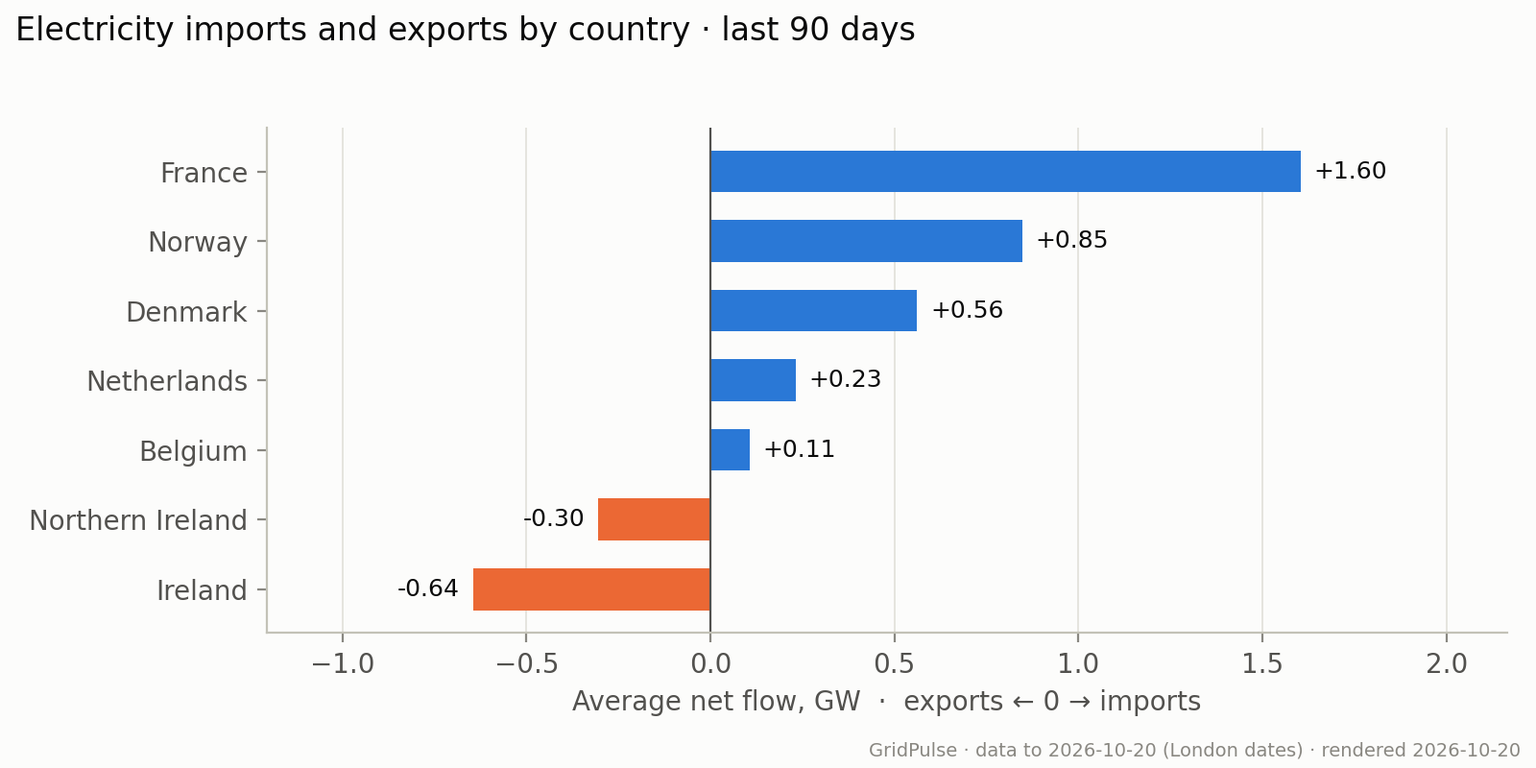
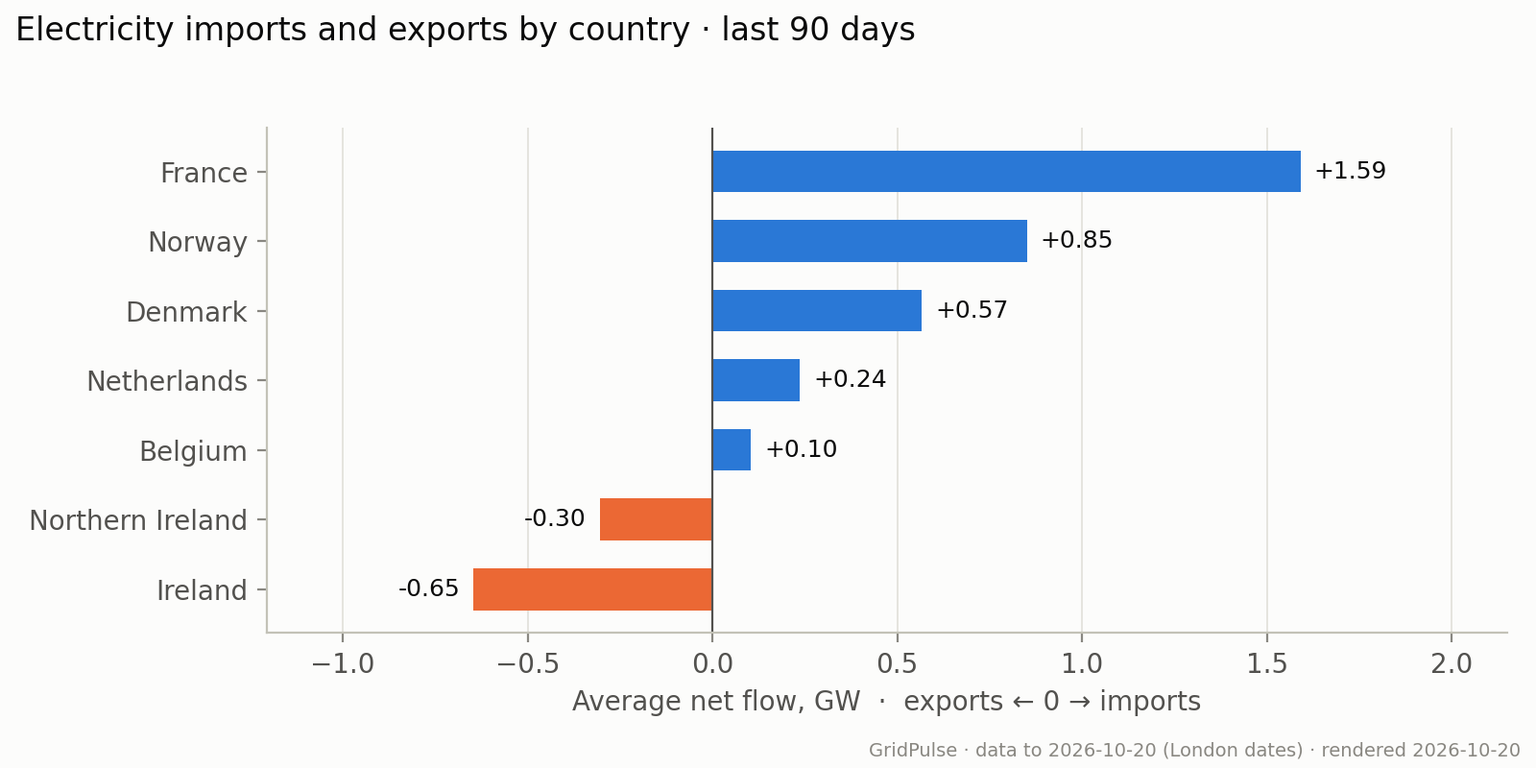
Rebuild from data to 2026-10-20, built 2026-10-20 14:50 UTC

diff --git a/index.html b/index.html
@@ -68,12 +68,12 @@ how electricity flows across borders, and how accurately demand is forecast.</p>
 <div><a href="#prices"><strong>Prices and grid conditions</strong></a><ul><li><a href="#negative_frequency">Negative Wholesale Price Frequency</a></li><li><a href="#negative_conditions">Grid Conditions During Negative Prices</a></li><li><a href="#imbalance_spread">Imbalance and Wholesale Price Gap</a></li><li><a href="#imbalance_conditions">Imbalance Prices by Grid Conditions</a></li></ul></div>
 <div><a href="#forecast-accuracy"><strong>Forecast accuracy</strong></a><ul><li><a href="#demand_accuracy">Average Demand Forecast Error by Hours Ahead</a></li><li><a href="#carbon_accuracy">Carbon Forecast Error by Month</a></li></ul></div>
 <div><a href="#data-quality"><strong>Data quality</strong></a><ul><li><a href="#coverage">Monthly Data Coverage</a></li><li><a href="#publication_coverage">Demand Forecast Publication Coverage</a></li></ul></div></nav></details>
-<p class="banner" id="built" data-built="2026-10-20T08:50:21Z" data-ingested="2026-10-20T08:00:34Z">
-Analysis built 2026-10-20 08:50 UTC. Each chart uses its stated window;
+<p class="banner" id="built" data-built="2026-10-20T14:50:17Z" data-ingested="2026-10-20T14:00:36Z">
+Analysis built 2026-10-20 14:50 UTC. Each chart uses its stated window;
 current-month results are provisional. Scheduled refresh: every 6 hours.</p>
 <details class="provenance"><summary>Data dates and source code</summary>
 <p class="meta">National carbon actuals: data to 2026-10-20 (London dates).
-Most recent ingestion across sources: 2026-10-20 08:00 UTC.
+Most recent ingestion across sources: 2026-10-20 14:00 UTC.
 These timestamps do not establish completeness or freshness for every source.
 “As of” refers to the build date. Select a chart to view it full size.</p>
 <a href="https://github.com/thrkld/gridpulse">Python, SQL and dbt project on GitHub</a></details>
@@ -135,7 +135,7 @@ These timestamps do not establish completeness or freshness for every source.
 <h4>Limitations</h4>
 <p class="caveat">Only half hours with all ten links reporting and positive settled demand are included. The Scotland–England boundary is excluded. Incomplete coverage may affect comparisons, especially for the current month.</p>
 <details><summary>How to read this graph and methodology</summary><p>The calculation sums the net flow across all ten cross-border links for each eligible half hour, then divides the monthly sum by demand summed over those same periods. It is a ratio of totals, rather than an average of half-hourly percentages. A value of 10% means net imports were equivalent to one tenth of national demand in the matched sample. Bars above zero indicate net imports; bars below zero indicate net exports. History starts in January 2024, and a light-blue bar identifies the current, incomplete month.</p></details>
-<details><summary>Numbers behind the chart</summary><div class="table-scroll" tabindex="0" role="region" aria-label="Data for Net Imports Relative to National Demand"><table><thead><tr><th>Month</th><th>Net imports / demand %</th><th>Mean net imports MW</th><th>Matched periods</th></tr></thead><tbody><tr><td>2024-01-01</td><td>8.06</td><td>2,562</td><td>1488</td></tr><tr><td>2024-02-01</td><td>15.01</td><td>4,432</td><td>1392</td></tr><tr><td>2024-03-01</td><td>19.32</td><td>5,391</td><td>1486</td></tr><tr><td>2024-04-01</td><td>13.29</td><td>3,350</td><td>1440</td></tr><tr><td>2024-05-01</td><td>20.57</td><td>4,757</td><td>1488</td></tr><tr><td>2024-06-01</td><td>20.41</td><td>4,511</td><td>1440</td></tr><tr><td>2024-07-01</td><td>20.62</td><td>4,707</td><td>1488</td></tr><tr><td>2024-08-01</td><td>12.1</td><td>2,625</td><td>1488</td></tr><tr><td>2024-09-01</td><td>15.22</td><td>3,700</td><td>1440</td></tr><tr><td>2024-10-01</td><td>12.64</td><td>3,375</td><td>1490</td></tr><tr><td>2024-11-01</td><td>11.05</td><td>3,381</td><td>1440</td></tr><tr><td>2024-12-01</td><td>9.21</td><td>2,741</td><td>1488</td></tr><tr><td>2025-01-01</td><td>10.27</td><td>3,419</td><td>1488</td></tr><tr><td>2025-02-01</td><td>8.82</td><td>2,795</td><td>1344</td></tr><tr><td>2025-03-01</td><td>16.57</td><td>4,551</td><td>1486</td></tr><tr><td>2025-04-01</td><td>17.99</td><td>4,246</td><td>1440</td></tr><tr><td>2025-05-01</td><td>14.65</td><td>3,180</td><td>1488</td></tr><tr><td>2025-06-01</td><td>11.81</td><td>2,581</td><td>1440</td></tr><tr><td>2025-07-01</td><td>18.21</td><td>4,126</td><td>1488</td></tr><tr><td>2025-08-01</td><td>16.98</td><td>3,703</td><td>1488</td></tr><tr><td>2025-09-01</td><td>12.05</td><td>2,847</td><td>1440</td></tr><tr><td>2025-10-01</td><td>10.61</td><td>2,817</td><td>1490</td></tr><tr><td>2025-11-01</td><td>6.67</td><td>1,988</td><td>1440</td></tr><tr><td>2025-12-01</td><td>11.78</td><td>3,561</td><td>1488</td></tr><tr><td>2026-01-01</td><td>7.38</td><td>2,428</td><td>1488</td></tr><tr><td>2026-02-01</td><td>6.44</td><td>2,006</td><td>1344</td></tr><tr><td>2026-03-01</td><td>14.46</td><td>3,985</td><td>1486</td></tr><tr><td>2026-04-01</td><td>12.21</td><td>2,868</td><td>1440</td></tr><tr><td>2026-05-01</td><td>19.08</td><td>4,315</td><td>1488</td></tr><tr><td>2026-06-01</td><td>14.09</td><td>3,162</td><td>1440</td></tr><tr><td>2026-07-01</td><td>20.01</td><td>4,372</td><td>1488</td></tr><tr><td>2026-08-01</td><td>15.24</td><td>3,365</td><td>1488</td></tr><tr><td>2026-09-01</td><td>5.43</td><td>1,269</td><td>1440</td></tr><tr><td>2026-10-01</td><td>5.6</td><td>1,382</td><td>879</td></tr></tbody></table></div></details>
+<details><summary>Numbers behind the chart</summary><div class="table-scroll" tabindex="0" role="region" aria-label="Data for Net Imports Relative to National Demand"><table><thead><tr><th>Month</th><th>Net imports / demand %</th><th>Mean net imports MW</th><th>Matched periods</th></tr></thead><tbody><tr><td>2024-01-01</td><td>8.06</td><td>2,562</td><td>1488</td></tr><tr><td>2024-02-01</td><td>15.01</td><td>4,432</td><td>1392</td></tr><tr><td>2024-03-01</td><td>19.32</td><td>5,391</td><td>1486</td></tr><tr><td>2024-04-01</td><td>13.29</td><td>3,350</td><td>1440</td></tr><tr><td>2024-05-01</td><td>20.57</td><td>4,757</td><td>1488</td></tr><tr><td>2024-06-01</td><td>20.41</td><td>4,511</td><td>1440</td></tr><tr><td>2024-07-01</td><td>20.62</td><td>4,707</td><td>1488</td></tr><tr><td>2024-08-01</td><td>12.1</td><td>2,625</td><td>1488</td></tr><tr><td>2024-09-01</td><td>15.22</td><td>3,700</td><td>1440</td></tr><tr><td>2024-10-01</td><td>12.64</td><td>3,375</td><td>1490</td></tr><tr><td>2024-11-01</td><td>11.05</td><td>3,381</td><td>1440</td></tr><tr><td>2024-12-01</td><td>9.21</td><td>2,741</td><td>1488</td></tr><tr><td>2025-01-01</td><td>10.27</td><td>3,419</td><td>1488</td></tr><tr><td>2025-02-01</td><td>8.82</td><td>2,795</td><td>1344</td></tr><tr><td>2025-03-01</td><td>16.57</td><td>4,551</td><td>1486</td></tr><tr><td>2025-04-01</td><td>17.99</td><td>4,246</td><td>1440</td></tr><tr><td>2025-05-01</td><td>14.65</td><td>3,180</td><td>1488</td></tr><tr><td>2025-06-01</td><td>11.81</td><td>2,581</td><td>1440</td></tr><tr><td>2025-07-01</td><td>18.21</td><td>4,126</td><td>1488</td></tr><tr><td>2025-08-01</td><td>16.98</td><td>3,703</td><td>1488</td></tr><tr><td>2025-09-01</td><td>12.05</td><td>2,847</td><td>1440</td></tr><tr><td>2025-10-01</td><td>10.61</td><td>2,817</td><td>1490</td></tr><tr><td>2025-11-01</td><td>6.67</td><td>1,988</td><td>1440</td></tr><tr><td>2025-12-01</td><td>11.78</td><td>3,561</td><td>1488</td></tr><tr><td>2026-01-01</td><td>7.38</td><td>2,428</td><td>1488</td></tr><tr><td>2026-02-01</td><td>6.44</td><td>2,006</td><td>1344</td></tr><tr><td>2026-03-01</td><td>14.46</td><td>3,985</td><td>1486</td></tr><tr><td>2026-04-01</td><td>12.21</td><td>2,868</td><td>1440</td></tr><tr><td>2026-05-01</td><td>19.08</td><td>4,315</td><td>1488</td></tr><tr><td>2026-06-01</td><td>14.09</td><td>3,162</td><td>1440</td></tr><tr><td>2026-07-01</td><td>20.01</td><td>4,372</td><td>1488</td></tr><tr><td>2026-08-01</td><td>15.24</td><td>3,365</td><td>1488</td></tr><tr><td>2026-09-01</td><td>5.43</td><td>1,269</td><td>1440</td></tr><tr><td>2026-10-01</td><td>5.62</td><td>1,398</td><td>910</td></tr></tbody></table></div></details>
 </section>
 <section class="chart" id="country_flows">
 <h3 class="chart-title">Electricity Imports and Exports by Country</h3>
@@ -143,14 +143,14 @@ These timestamps do not establish completeness or freshness for every source.
 <p>Each horizontal bar shows average net electricity flow between Great Britain and one neighbouring country over the last 90 completed days. Blue bars to the right mean imports into GB; orange bars to the left mean exports.</p>
 <div class="finding">
 <h4>Findings (as of 20 October 2026)</h4>
-<p>Across 4,287 matched half hours in the last 90 completed days, GB was a net importer at 2.40 GW on average. Country values combine all links to each destination.</p>
+<p>Across 4,318 matched half hours in the last 90 completed days, GB was a net importer at 2.40 GW on average. Country values combine all links to each destination.</p>
 </div>
 <a href="charts/country_flows.png" aria-label="View full-size chart: Electricity Imports and Exports by Country"><img src="charts/country_flows.png" alt="Electricity Imports and Exports by Country"></a>
 <p class="meta"><a href="charts/country_flows.png">Open full-size chart</a></p>
 <h4>Limitations</h4>
 <p class="caveat">Net averages conceal changes in direction within the window. Only periods with all ten cross-border links reporting are included; this does not measure each country&#x27;s contribution to electricity consumed in GB.</p>
 <details><summary>How to read this graph and methodology</summary><p>For each eligible half hour, flows on links to the same country are added together before averaging. Values are in gigawatts (1 GW = 1,000 MW). All countries use the same half hours. The internal Scotland–England boundary is excluded. Positive and negative flows cancel when calculating net flow, so a small bar can still represent substantial trading in both directions.</p></details>
-<details><summary>Numbers behind the chart</summary><div class="table-scroll" tabindex="0" role="region" aria-label="Data for Electricity Imports and Exports by Country"><table><thead><tr><th>Country</th><th>Average net flow MW</th><th>Matched periods</th></tr></thead><tbody><tr><td>France</td><td>1,603</td><td>4287</td></tr><tr><td>Norway</td><td>847</td><td>4287</td></tr><tr><td>Denmark</td><td>561</td><td>4287</td></tr><tr><td>Netherlands</td><td>232</td><td>4287</td></tr><tr><td>Belgium</td><td>106</td><td>4287</td></tr><tr><td>Northern Ireland</td><td>-304</td><td>4287</td></tr><tr><td>Ireland</td><td>-644</td><td>4287</td></tr></tbody></table></div></details>
+<details><summary>Numbers behind the chart</summary><div class="table-scroll" tabindex="0" role="region" aria-label="Data for Electricity Imports and Exports by Country"><table><thead><tr><th>Country</th><th>Average net flow MW</th><th>Matched periods</th></tr></thead><tbody><tr><td>France</td><td>1,591</td><td>4318</td></tr><tr><td>Norway</td><td>851</td><td>4318</td></tr><tr><td>Denmark</td><td>567</td><td>4318</td></tr><tr><td>Netherlands</td><td>236</td><td>4318</td></tr><tr><td>Belgium</td><td>104</td><td>4318</td></tr><tr><td>Northern Ireland</td><td>-305</td><td>4318</td></tr><tr><td>Ireland</td><td>-647</td><td>4318</td></tr></tbody></table></div></details>
 </section>
 <section class="chart" id="nations">
 <h3 class="chart-title">Forecast Carbon Intensity and Mix by Nation</h3>
@@ -188,14 +188,14 @@ These timestamps do not establish completeness or freshness for every source.
 <p>Three panels compare average national demand, renewable generation share and carbon intensity during negative versus non-negative wholesale prices. Orange bars represent negative prices; blue bars include zero and positive prices.</p>
 <div class="finding">
 <h4>Findings (as of 20 October 2026)</h4>
-<p>Renewables averaged 67.1% of generation during 1,325 negative-price half hours, versus 38.2% during 47,664 non-negative-price half hours. Average carbon intensity was 48.7 versus 127.7 gCO₂/kWh.</p>
+<p>Renewables averaged 67.1% of generation during 1,325 negative-price half hours, versus 38.2% during 47,695 non-negative-price half hours. Average carbon intensity was 48.7 versus 127.7 gCO₂/kWh.</p>
 </div>
 <a href="charts/negative_conditions.png" aria-label="View full-size chart: Grid Conditions During Negative Prices"><img src="charts/negative_conditions.png" alt="Grid Conditions During Negative Prices"></a>
 <p class="meta"><a href="charts/negative_conditions.png">Open full-size chart</a></p>
 <h4>Limitations</h4>
 <p class="caveat">These are associations, not causal effects. The groups differ in size, season and time of day. Their sample is smaller than the negative-price frequency chart because every displayed measurement must be available.</p>
 <details><summary>How to read this graph and methodology</summary><p>Each group uses half hours since January 2024 with wholesale price, positive settled demand, wind, solar, total renewable share and observed carbon intensity available. Renewables means wind, solar and hydro. The panels use different units and independent vertical scales: compare bars within each panel, not heights across panels. Wind and solar shares and sample counts are available in the data table. Today is excluded.</p></details>
-<details><summary>Numbers behind the chart</summary><div class="table-scroll" tabindex="0" role="region" aria-label="Data for Grid Conditions During Negative Prices"><table><thead><tr><th>Period type</th><th>Matched periods</th><th>Demand MW</th><th>Wind %</th><th>Solar %</th><th>Renewable %</th><th>Carbon intensity gCO2/kWh</th></tr></thead><tbody><tr><td>Negative price</td><td>1325</td><td>18,548</td><td>51</td><td>15.7</td><td>67.1</td><td>48.7</td></tr><tr><td>Non-negative price</td><td>47664</td><td>26,140</td><td>31.3</td><td>6</td><td>38.2</td><td>127.7</td></tr></tbody></table></div></details>
+<details><summary>Numbers behind the chart</summary><div class="table-scroll" tabindex="0" role="region" aria-label="Data for Grid Conditions During Negative Prices"><table><thead><tr><th>Period type</th><th>Matched periods</th><th>Demand MW</th><th>Wind %</th><th>Solar %</th><th>Renewable %</th><th>Carbon intensity gCO2/kWh</th></tr></thead><tbody><tr><td>Negative price</td><td>1325</td><td>18,548</td><td>51</td><td>15.7</td><td>67.1</td><td>48.7</td></tr><tr><td>Non-negative price</td><td>47695</td><td>26,143</td><td>31.3</td><td>6</td><td>38.2</td><td>127.7</td></tr></tbody></table></div></details>
 </section>
 <section class="chart" id="imbalance_spread">
 <h3 class="chart-title">Imbalance and Wholesale Price Gap</h3>
@@ -225,7 +225,7 @@ These timestamps do not establish completeness or freshness for every source.
 <h4>Limitations</h4>
 <p class="caveat">Averages in small groups are unstable and sensitive to extreme prices. Demand and renewable share alone cannot explain price formation; season, fuel prices and system constraints also vary.</p>
 <details><summary>How to read this graph and methodology</summary><p>Rows are 5 GW demand bands; columns are 20-percentage-point renewable bands. Lower bounds are included and upper bounds excluded, except the final renewable band includes 100%. Renewables comprises wind, solar and hydro. Red means a positive average price; blue means a negative average, with stronger colour indicating a larger magnitude. Every eligible half hour since January 2024 needs positive settled demand, a renewable share from 0% to 100% and an imbalance price. The colour scale and headline only compare groups with at least 100 observations, a descriptive filter rather than a statistical significance test. All other observed averages remain labelled in striped cells and listed in the data table. Today is excluded.</p></details>
-<details><summary>Numbers behind the chart</summary><div class="table-scroll" tabindex="0" role="region" aria-label="Data for Imbalance Prices by Grid Conditions"><table><thead><tr><th>Demand bin lower bound GW</th><th>Renewable bin lower bound %</th><th>Mean imbalance price GBP/MWh</th><th>Matched periods</th></tr></thead><tbody><tr><td>10</td><td>40</td><td>60.34</td><td>45</td></tr><tr><td>10</td><td>60</td><td>-7.07</td><td>119</td></tr><tr><td>15</td><td>0</td><td>85.6</td><td>710</td></tr><tr><td>15</td><td>20</td><td>81.71</td><td>2030</td></tr><tr><td>15</td><td>40</td><td>57.62</td><td>2731</td></tr><tr><td>15</td><td>60</td><td>10.78</td><td>1965</td></tr><tr><td>15</td><td>80</td><td>13.92</td><td>7</td></tr><tr><td>20</td><td>0</td><td>93.46</td><td>2153</td></tr><tr><td>20</td><td>20</td><td>91.95</td><td>6173</td></tr><tr><td>20</td><td>40</td><td>79.88</td><td>6359</td></tr><tr><td>20</td><td>60</td><td>34.16</td><td>2698</td></tr><tr><td>25</td><td>0</td><td>107.18</td><td>1981</td></tr><tr><td>25</td><td>20</td><td>100.91</td><td>5661</td></tr><tr><td>25</td><td>40</td><td>89.12</td><td>3925</td></tr><tr><td>25</td><td>60</td><td>56.67</td><td>1181</td></tr><tr><td>30</td><td>0</td><td>115.53</td><td>1165</td></tr><tr><td>30</td><td>20</td><td>95.98</td><td>2432</td></tr><tr><td>30</td><td>40</td><td>86.75</td><td>2324</td></tr><tr><td>30</td><td>60</td><td>69.13</td><td>355</td></tr><tr><td>35</td><td>0</td><td>126.58</td><td>826</td></tr><tr><td>35</td><td>20</td><td>98.39</td><td>1939</td></tr><tr><td>35</td><td>40</td><td>90.36</td><td>1228</td></tr><tr><td>35</td><td>60</td><td>91.03</td><td>5</td></tr><tr><td>40</td><td>0</td><td>199.64</td><td>307</td></tr><tr><td>40</td><td>20</td><td>114.72</td><td>582</td></tr><tr><td>40</td><td>40</td><td>104.88</td><td>97</td></tr><tr><td>45</td><td>0</td><td>1,967</td><td>6</td></tr><tr><td>45</td><td>20</td><td>183.04</td><td>18</td></tr></tbody></table></div></details>
+<details><summary>Numbers behind the chart</summary><div class="table-scroll" tabindex="0" role="region" aria-label="Data for Imbalance Prices by Grid Conditions"><table><thead><tr><th>Demand bin lower bound GW</th><th>Renewable bin lower bound %</th><th>Mean imbalance price GBP/MWh</th><th>Matched periods</th></tr></thead><tbody><tr><td>10</td><td>40</td><td>60.34</td><td>45</td></tr><tr><td>10</td><td>60</td><td>-7.07</td><td>119</td></tr><tr><td>15</td><td>0</td><td>85.6</td><td>710</td></tr><tr><td>15</td><td>20</td><td>81.71</td><td>2030</td></tr><tr><td>15</td><td>40</td><td>57.62</td><td>2731</td></tr><tr><td>15</td><td>60</td><td>10.78</td><td>1965</td></tr><tr><td>15</td><td>80</td><td>13.92</td><td>7</td></tr><tr><td>20</td><td>0</td><td>93.46</td><td>2153</td></tr><tr><td>20</td><td>20</td><td>91.96</td><td>6174</td></tr><tr><td>20</td><td>40</td><td>79.89</td><td>6360</td></tr><tr><td>20</td><td>60</td><td>34.16</td><td>2698</td></tr><tr><td>25</td><td>0</td><td>107.18</td><td>1981</td></tr><tr><td>25</td><td>20</td><td>101.07</td><td>5673</td></tr><tr><td>25</td><td>40</td><td>89.11</td><td>3926</td></tr><tr><td>25</td><td>60</td><td>56.67</td><td>1181</td></tr><tr><td>30</td><td>0</td><td>115.53</td><td>1165</td></tr><tr><td>30</td><td>20</td><td>96.45</td><td>2443</td></tr><tr><td>30</td><td>40</td><td>86.75</td><td>2324</td></tr><tr><td>30</td><td>60</td><td>69.13</td><td>355</td></tr><tr><td>35</td><td>0</td><td>126.58</td><td>826</td></tr><tr><td>35</td><td>20</td><td>98.59</td><td>1944</td></tr><tr><td>35</td><td>40</td><td>90.36</td><td>1228</td></tr><tr><td>35</td><td>60</td><td>91.03</td><td>5</td></tr><tr><td>40</td><td>0</td><td>199.64</td><td>307</td></tr><tr><td>40</td><td>20</td><td>114.72</td><td>582</td></tr><tr><td>40</td><td>40</td><td>104.88</td><td>97</td></tr><tr><td>45</td><td>0</td><td>1,967</td><td>6</td></tr><tr><td>45</td><td>20</td><td>183.04</td><td>18</td></tr></tbody></table></div></details>
 </section>
 <h2 class="topic-heading" id="forecast-accuracy">Forecast accuracy</h2><section class="chart" id="demand_accuracy">
 <h3 class="chart-title">Average Demand Forecast Error by Hours Ahead</h3>
@@ -263,14 +263,14 @@ These timestamps do not establish completeness or freshness for every source.
 <p>The heatmap shows what percentage of expected half hours have each measurement. Darker cells mean more complete coverage; pale cells reveal missing data. The first row checks whether a row exists in the combined analysis dataset.</p>
 <div class="finding">
 <h4>Findings (as of 20 October 2026)</h4>
-<p>In October 2026, neso settled demand had the lowest coverage of the displayed measures at 96.4% of 912 expected half hours through yesterday. Availability does not guarantee accuracy or a complete matched sample.</p>
+<p>In October 2026, neso settled demand had the lowest coverage of the displayed measures at 99.8% of 912 expected half hours through yesterday. Availability does not guarantee accuracy or a complete matched sample.</p>
 </div>
 <a href="charts/coverage.png" aria-label="View full-size chart: Monthly Data Coverage"><img src="charts/coverage.png" alt="Monthly Data Coverage"></a>
 <p class="meta"><a href="charts/coverage.png">Open full-size chart</a></p>
 <h4>Limitations</h4>
 <p class="caveat">A present value may still be incorrect or later revised. High coverage of individual fields does not guarantee that all fields needed for a particular analysis are available together.</p>
 <details><summary>How to read this graph and methodology</summary><p>Expected periods come from the calendar table since January 2024, through yesterday, accounting for clock changes. Each cell divides the count with data by the expected count for its month. Carbon forecast pairs require both forecast and observed intensity. NESO settled demand additionally requires positive demand. Elexon demand observations are the national demand outturn used in the forecast evaluation. Coverage is separate from the counts of matched periods beneath the analytical charts.</p></details>
-<details><summary>Numbers behind the chart</summary><div class="table-scroll" tabindex="0" role="region" aria-label="Data for Monthly Data Coverage"><table><thead><tr><th>Month</th><th>Expected periods</th><th>Mart periods</th><th>Carbon actual periods</th><th>Carbon forecast pairs</th><th>Market price periods</th><th>Imbalance price periods</th><th>Settled NESO periods</th><th>INDO periods</th><th>Generation mix periods</th><th>Latest priced period UTC</th><th>Latest settled demand UTC</th></tr></thead><tbody><tr><td>2026-10-01</td><td>912</td><td>912</td><td>912</td><td>912</td><td>912</td><td>912</td><td>879</td><td>912</td><td>912</td><td>2026-10-19</td><td>2026-10-19</td></tr><tr><td>2026-09-01</td><td>1440</td><td>1440</td><td>1440</td><td>1440</td><td>1436</td><td>1440</td><td>1440</td><td>1440</td><td>1440</td><td>2026-09-30</td><td>2026-09-30</td></tr><tr><td>2026-08-01</td><td>1488</td><td>1488</td><td>1488</td><td>1488</td><td>1488</td><td>1488</td><td>1488</td><td>1488</td><td>1488</td><td>2026-08-31</td><td>2026-08-31</td></tr><tr><td>2026-07-01</td><td>1488</td><td>1488</td><td>1488</td><td>1488</td><td>1482</td><td>1488</td><td>1488</td><td>1488</td><td>1488</td><td>2026-07-31</td><td>2026-07-31</td></tr><tr><td>2026-06-01</td><td>1440</td><td>1440</td><td>1440</td><td>1440</td><td>1440</td><td>1440</td><td>1440</td><td>1440</td><td>1440</td><td>2026-06-30</td><td>2026-06-30</td></tr><tr><td>2026-05-01</td><td>1488</td><td>1488</td><td>1488</td><td>1488</td><td>1486</td><td>1488</td><td>1488</td><td>1488</td><td>1488</td><td>2026-05-31</td><td>2026-05-31</td></tr><tr><td>2026-04-01</td><td>1440</td><td>1440</td><td>1440</td><td>1440</td><td>1440</td><td>1440</td><td>1440</td><td>1440</td><td>1440</td><td>2026-04-30</td><td>2026-04-30</td></tr><tr><td>2026-03-01</td><td>1486</td><td>1486</td><td>1486</td><td>1486</td><td>1486</td><td>1486</td><td>1486</td><td>1486</td><td>1486</td><td>2026-03-31</td><td>2026-03-31</td></tr><tr><td>2026-02-01</td><td>1344</td><td>1344</td><td>1344</td><td>1344</td><td>1344</td><td>1344</td><td>1344</td><td>1344</td><td>1344</td><td>2026-02-28</td><td>2026-02-28</td></tr><tr><td>2026-01-01</td><td>1488</td><td>1488</td><td>1488</td><td>1488</td><td>1488</td><td>1488</td><td>1488</td><td>1488</td><td>1488</td><td>2026-01-31</td><td>2026-01-31</td></tr><tr><td>2025-12-01</td><td>1488</td><td>1488</td><td>1488</td><td>1488</td><td>1488</td><td>1488</td><td>1488</td><td>1488</td><td>1488</td><td>2025-12-31</td><td>2025-12-31</td></tr><tr><td>2025-11-01</td><td>1440</td><td>1440</td><td>1440</td><td>1440</td><td>1440</td><td>1440</td><td>1440</td><td>1440</td><td>1440</td><td>2025-11-30</td><td>2025-11-30</td></tr><tr><td>2025-10-01</td><td>1490</td><td>1490</td><td>1490</td><td>1490</td><td>1490</td><td>1490</td><td>1490</td><td>1490</td><td>1490</td><td>2025-10-31</td><td>2025-10-31</td></tr><tr><td>2025-09-01</td><td>1440</td><td>1440</td><td>1440</td><td>1440</td><td>1439</td><td>1440</td><td>1440</td><td>1440</td><td>1440</td><td>2025-09-30</td><td>2025-09-30</td></tr><tr><td>2025-08-01</td><td>1488</td><td>1488</td><td>1488</td><td>1471</td><td>1488</td><td>1488</td><td>1488</td><td>1488</td><td>1480</td><td>2025-08-31</td><td>2025-08-31</td></tr><tr><td>2025-07-01</td><td>1488</td><td>1488</td><td>1488</td><td>1488</td><td>1488</td><td>1488</td><td>1488</td><td>1488</td><td>1488</td><td>2025-07-31</td><td>2025-07-31</td></tr><tr><td>2025-06-01</td><td>1440</td><td>1440</td><td>1440</td><td>1440</td><td>1430</td><td>1440</td><td>1440</td><td>1440</td><td>1440</td><td>2025-06-30</td><td>2025-06-30</td></tr><tr><td>2025-05-01</td><td>1488</td><td>1488</td><td>1488</td><td>1488</td><td>1488</td><td>1488</td><td>1488</td><td>1488</td><td>1488</td><td>2025-05-31</td><td>2025-05-31</td></tr><tr><td>2025-04-01</td><td>1440</td><td>1440</td><td>1440</td><td>1440</td><td>1440</td><td>1440</td><td>1440</td><td>1440</td><td>1440</td><td>2025-04-30</td><td>2025-04-30</td></tr><tr><td>2025-03-01</td><td>1486</td><td>1486</td><td>1486</td><td>1486</td><td>1486</td><td>1486</td><td>1486</td><td>1486</td><td>1486</td><td>2025-03-31</td><td>2025-03-31</td></tr><tr><td>2025-02-01</td><td>1344</td><td>1344</td><td>1344</td><td>1344</td><td>1344</td><td>1344</td><td>1344</td><td>1344</td><td>1344</td><td>2025-02-28</td><td>2025-02-28</td></tr><tr><td>2025-01-01</td><td>1488</td><td>1488</td><td>1488</td><td>1462</td><td>1488</td><td>1488</td><td>1488</td><td>1488</td><td>1471</td><td>2025-01-31</td><td>2025-01-31</td></tr><tr><td>2024-12-01</td><td>1488</td><td>1488</td><td>1488</td><td>1488</td><td>1488</td><td>1488</td><td>1488</td><td>1488</td><td>1488</td><td>2024-12-31</td><td>2024-12-31</td></tr><tr><td>2024-11-01</td><td>1440</td><td>1440</td><td>1440</td><td>1440</td><td>1440</td><td>1440</td><td>1440</td><td>1440</td><td>1440</td><td>2024-11-30</td><td>2024-11-30</td></tr><tr><td>2024-10-01</td><td>1490</td><td>1490</td><td>1490</td><td>1490</td><td>1490</td><td>1490</td><td>1490</td><td>1490</td><td>1490</td><td>2024-10-31</td><td>2024-10-31</td></tr><tr><td>2024-09-01</td><td>1440</td><td>1440</td><td>1440</td><td>1440</td><td>1440</td><td>1440</td><td>1440</td><td>1440</td><td>1440</td><td>2024-09-30</td><td>2024-09-30</td></tr><tr><td>2024-08-01</td><td>1488</td><td>1488</td><td>1488</td><td>1488</td><td>1488</td><td>1488</td><td>1488</td><td>1488</td><td>1488</td><td>2024-08-31</td><td>2024-08-31</td></tr><tr><td>2024-07-01</td><td>1488</td><td>1488</td><td>1488</td><td>1488</td><td>1488</td><td>1488</td><td>1488</td><td>1488</td><td>1488</td><td>2024-07-31</td><td>2024-07-31</td></tr><tr><td>2024-06-01</td><td>1440</td><td>1440</td><td>1409</td><td>1409</td><td>1440</td><td>1440</td><td>1440</td><td>1440</td><td>1418</td><td>2024-06-30</td><td>2024-06-30</td></tr><tr><td>2024-05-01</td><td>1488</td><td>1488</td><td>1488</td><td>1488</td><td>1488</td><td>1488</td><td>1488</td><td>1488</td><td>1488</td><td>2024-05-31</td><td>2024-05-31</td></tr><tr><td>2024-04-01</td><td>1440</td><td>1440</td><td>1440</td><td>1440</td><td>1439</td><td>1440</td><td>1440</td><td>1440</td><td>1440</td><td>2024-04-30</td><td>2024-04-30</td></tr><tr><td>2024-03-01</td><td>1486</td><td>1486</td><td>1486</td><td>1486</td><td>1486</td><td>1486</td><td>1486</td><td>1486</td><td>1486</td><td>2024-03-31</td><td>2024-03-31</td></tr><tr><td>2024-02-01</td><td>1392</td><td>1392</td><td>1392</td><td>1392</td><td>1392</td><td>1392</td><td>1392</td><td>1392</td><td>1392</td><td>2024-02-29</td><td>2024-02-29</td></tr><tr><td>2024-01-01</td><td>1488</td><td>1488</td><td>1488</td><td>1488</td><td>1488</td><td>1488</td><td>1488</td><td>1488</td><td>1488</td><td>2024-01-31</td><td>2024-01-31</td></tr></tbody></table></div></details>
+<details><summary>Numbers behind the chart</summary><div class="table-scroll" tabindex="0" role="region" aria-label="Data for Monthly Data Coverage"><table><thead><tr><th>Month</th><th>Expected periods</th><th>Mart periods</th><th>Carbon actual periods</th><th>Carbon forecast pairs</th><th>Market price periods</th><th>Imbalance price periods</th><th>Settled NESO periods</th><th>INDO periods</th><th>Generation mix periods</th><th>Latest priced period UTC</th><th>Latest settled demand UTC</th></tr></thead><tbody><tr><td>2026-10-01</td><td>912</td><td>912</td><td>912</td><td>912</td><td>912</td><td>912</td><td>910</td><td>912</td><td>912</td><td>2026-10-19</td><td>2026-10-19</td></tr><tr><td>2026-09-01</td><td>1440</td><td>1440</td><td>1440</td><td>1440</td><td>1436</td><td>1440</td><td>1440</td><td>1440</td><td>1440</td><td>2026-09-30</td><td>2026-09-30</td></tr><tr><td>2026-08-01</td><td>1488</td><td>1488</td><td>1488</td><td>1488</td><td>1488</td><td>1488</td><td>1488</td><td>1488</td><td>1488</td><td>2026-08-31</td><td>2026-08-31</td></tr><tr><td>2026-07-01</td><td>1488</td><td>1488</td><td>1488</td><td>1488</td><td>1482</td><td>1488</td><td>1488</td><td>1488</td><td>1488</td><td>2026-07-31</td><td>2026-07-31</td></tr><tr><td>2026-06-01</td><td>1440</td><td>1440</td><td>1440</td><td>1440</td><td>1440</td><td>1440</td><td>1440</td><td>1440</td><td>1440</td><td>2026-06-30</td><td>2026-06-30</td></tr><tr><td>2026-05-01</td><td>1488</td><td>1488</td><td>1488</td><td>1488</td><td>1486</td><td>1488</td><td>1488</td><td>1488</td><td>1488</td><td>2026-05-31</td><td>2026-05-31</td></tr><tr><td>2026-04-01</td><td>1440</td><td>1440</td><td>1440</td><td>1440</td><td>1440</td><td>1440</td><td>1440</td><td>1440</td><td>1440</td><td>2026-04-30</td><td>2026-04-30</td></tr><tr><td>2026-03-01</td><td>1486</td><td>1486</td><td>1486</td><td>1486</td><td>1486</td><td>1486</td><td>1486</td><td>1486</td><td>1486</td><td>2026-03-31</td><td>2026-03-31</td></tr><tr><td>2026-02-01</td><td>1344</td><td>1344</td><td>1344</td><td>1344</td><td>1344</td><td>1344</td><td>1344</td><td>1344</td><td>1344</td><td>2026-02-28</td><td>2026-02-28</td></tr><tr><td>2026-01-01</td><td>1488</td><td>1488</td><td>1488</td><td>1488</td><td>1488</td><td>1488</td><td>1488</td><td>1488</td><td>1488</td><td>2026-01-31</td><td>2026-01-31</td></tr><tr><td>2025-12-01</td><td>1488</td><td>1488</td><td>1488</td><td>1488</td><td>1488</td><td>1488</td><td>1488</td><td>1488</td><td>1488</td><td>2025-12-31</td><td>2025-12-31</td></tr><tr><td>2025-11-01</td><td>1440</td><td>1440</td><td>1440</td><td>1440</td><td>1440</td><td>1440</td><td>1440</td><td>1440</td><td>1440</td><td>2025-11-30</td><td>2025-11-30</td></tr><tr><td>2025-10-01</td><td>1490</td><td>1490</td><td>1490</td><td>1490</td><td>1490</td><td>1490</td><td>1490</td><td>1490</td><td>1490</td><td>2025-10-31</td><td>2025-10-31</td></tr><tr><td>2025-09-01</td><td>1440</td><td>1440</td><td>1440</td><td>1440</td><td>1439</td><td>1440</td><td>1440</td><td>1440</td><td>1440</td><td>2025-09-30</td><td>2025-09-30</td></tr><tr><td>2025-08-01</td><td>1488</td><td>1488</td><td>1488</td><td>1471</td><td>1488</td><td>1488</td><td>1488</td><td>1488</td><td>1480</td><td>2025-08-31</td><td>2025-08-31</td></tr><tr><td>2025-07-01</td><td>1488</td><td>1488</td><td>1488</td><td>1488</td><td>1488</td><td>1488</td><td>1488</td><td>1488</td><td>1488</td><td>2025-07-31</td><td>2025-07-31</td></tr><tr><td>2025-06-01</td><td>1440</td><td>1440</td><td>1440</td><td>1440</td><td>1430</td><td>1440</td><td>1440</td><td>1440</td><td>1440</td><td>2025-06-30</td><td>2025-06-30</td></tr><tr><td>2025-05-01</td><td>1488</td><td>1488</td><td>1488</td><td>1488</td><td>1488</td><td>1488</td><td>1488</td><td>1488</td><td>1488</td><td>2025-05-31</td><td>2025-05-31</td></tr><tr><td>2025-04-01</td><td>1440</td><td>1440</td><td>1440</td><td>1440</td><td>1440</td><td>1440</td><td>1440</td><td>1440</td><td>1440</td><td>2025-04-30</td><td>2025-04-30</td></tr><tr><td>2025-03-01</td><td>1486</td><td>1486</td><td>1486</td><td>1486</td><td>1486</td><td>1486</td><td>1486</td><td>1486</td><td>1486</td><td>2025-03-31</td><td>2025-03-31</td></tr><tr><td>2025-02-01</td><td>1344</td><td>1344</td><td>1344</td><td>1344</td><td>1344</td><td>1344</td><td>1344</td><td>1344</td><td>1344</td><td>2025-02-28</td><td>2025-02-28</td></tr><tr><td>2025-01-01</td><td>1488</td><td>1488</td><td>1488</td><td>1462</td><td>1488</td><td>1488</td><td>1488</td><td>1488</td><td>1471</td><td>2025-01-31</td><td>2025-01-31</td></tr><tr><td>2024-12-01</td><td>1488</td><td>1488</td><td>1488</td><td>1488</td><td>1488</td><td>1488</td><td>1488</td><td>1488</td><td>1488</td><td>2024-12-31</td><td>2024-12-31</td></tr><tr><td>2024-11-01</td><td>1440</td><td>1440</td><td>1440</td><td>1440</td><td>1440</td><td>1440</td><td>1440</td><td>1440</td><td>1440</td><td>2024-11-30</td><td>2024-11-30</td></tr><tr><td>2024-10-01</td><td>1490</td><td>1490</td><td>1490</td><td>1490</td><td>1490</td><td>1490</td><td>1490</td><td>1490</td><td>1490</td><td>2024-10-31</td><td>2024-10-31</td></tr><tr><td>2024-09-01</td><td>1440</td><td>1440</td><td>1440</td><td>1440</td><td>1440</td><td>1440</td><td>1440</td><td>1440</td><td>1440</td><td>2024-09-30</td><td>2024-09-30</td></tr><tr><td>2024-08-01</td><td>1488</td><td>1488</td><td>1488</td><td>1488</td><td>1488</td><td>1488</td><td>1488</td><td>1488</td><td>1488</td><td>2024-08-31</td><td>2024-08-31</td></tr><tr><td>2024-07-01</td><td>1488</td><td>1488</td><td>1488</td><td>1488</td><td>1488</td><td>1488</td><td>1488</td><td>1488</td><td>1488</td><td>2024-07-31</td><td>2024-07-31</td></tr><tr><td>2024-06-01</td><td>1440</td><td>1440</td><td>1409</td><td>1409</td><td>1440</td><td>1440</td><td>1440</td><td>1440</td><td>1418</td><td>2024-06-30</td><td>2024-06-30</td></tr><tr><td>2024-05-01</td><td>1488</td><td>1488</td><td>1488</td><td>1488</td><td>1488</td><td>1488</td><td>1488</td><td>1488</td><td>1488</td><td>2024-05-31</td><td>2024-05-31</td></tr><tr><td>2024-04-01</td><td>1440</td><td>1440</td><td>1440</td><td>1440</td><td>1439</td><td>1440</td><td>1440</td><td>1440</td><td>1440</td><td>2024-04-30</td><td>2024-04-30</td></tr><tr><td>2024-03-01</td><td>1486</td><td>1486</td><td>1486</td><td>1486</td><td>1486</td><td>1486</td><td>1486</td><td>1486</td><td>1486</td><td>2024-03-31</td><td>2024-03-31</td></tr><tr><td>2024-02-01</td><td>1392</td><td>1392</td><td>1392</td><td>1392</td><td>1392</td><td>1392</td><td>1392</td><td>1392</td><td>1392</td><td>2024-02-29</td><td>2024-02-29</td></tr><tr><td>2024-01-01</td><td>1488</td><td>1488</td><td>1488</td><td>1488</td><td>1488</td><td>1488</td><td>1488</td><td>1488</td><td>1488</td><td>2024-01-31</td><td>2024-01-31</td></tr></tbody></table></div></details>
 </section>
 <section class="chart" id="publication_coverage">
 <h3 class="chart-title">Demand Forecast Publication Coverage</h3>
